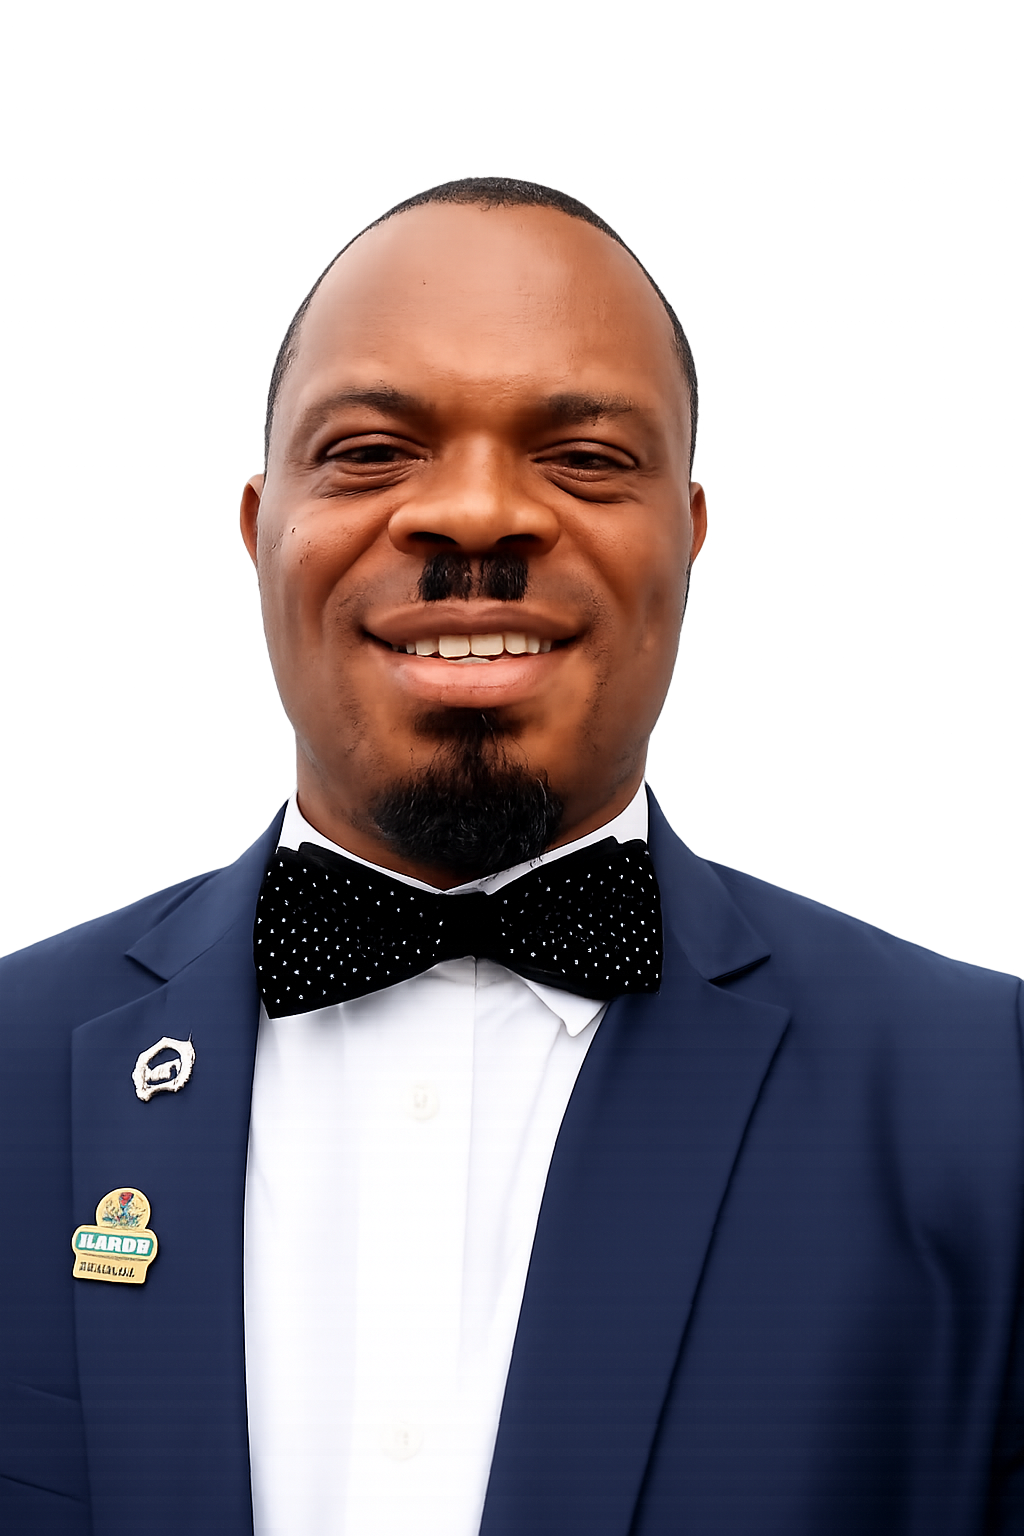
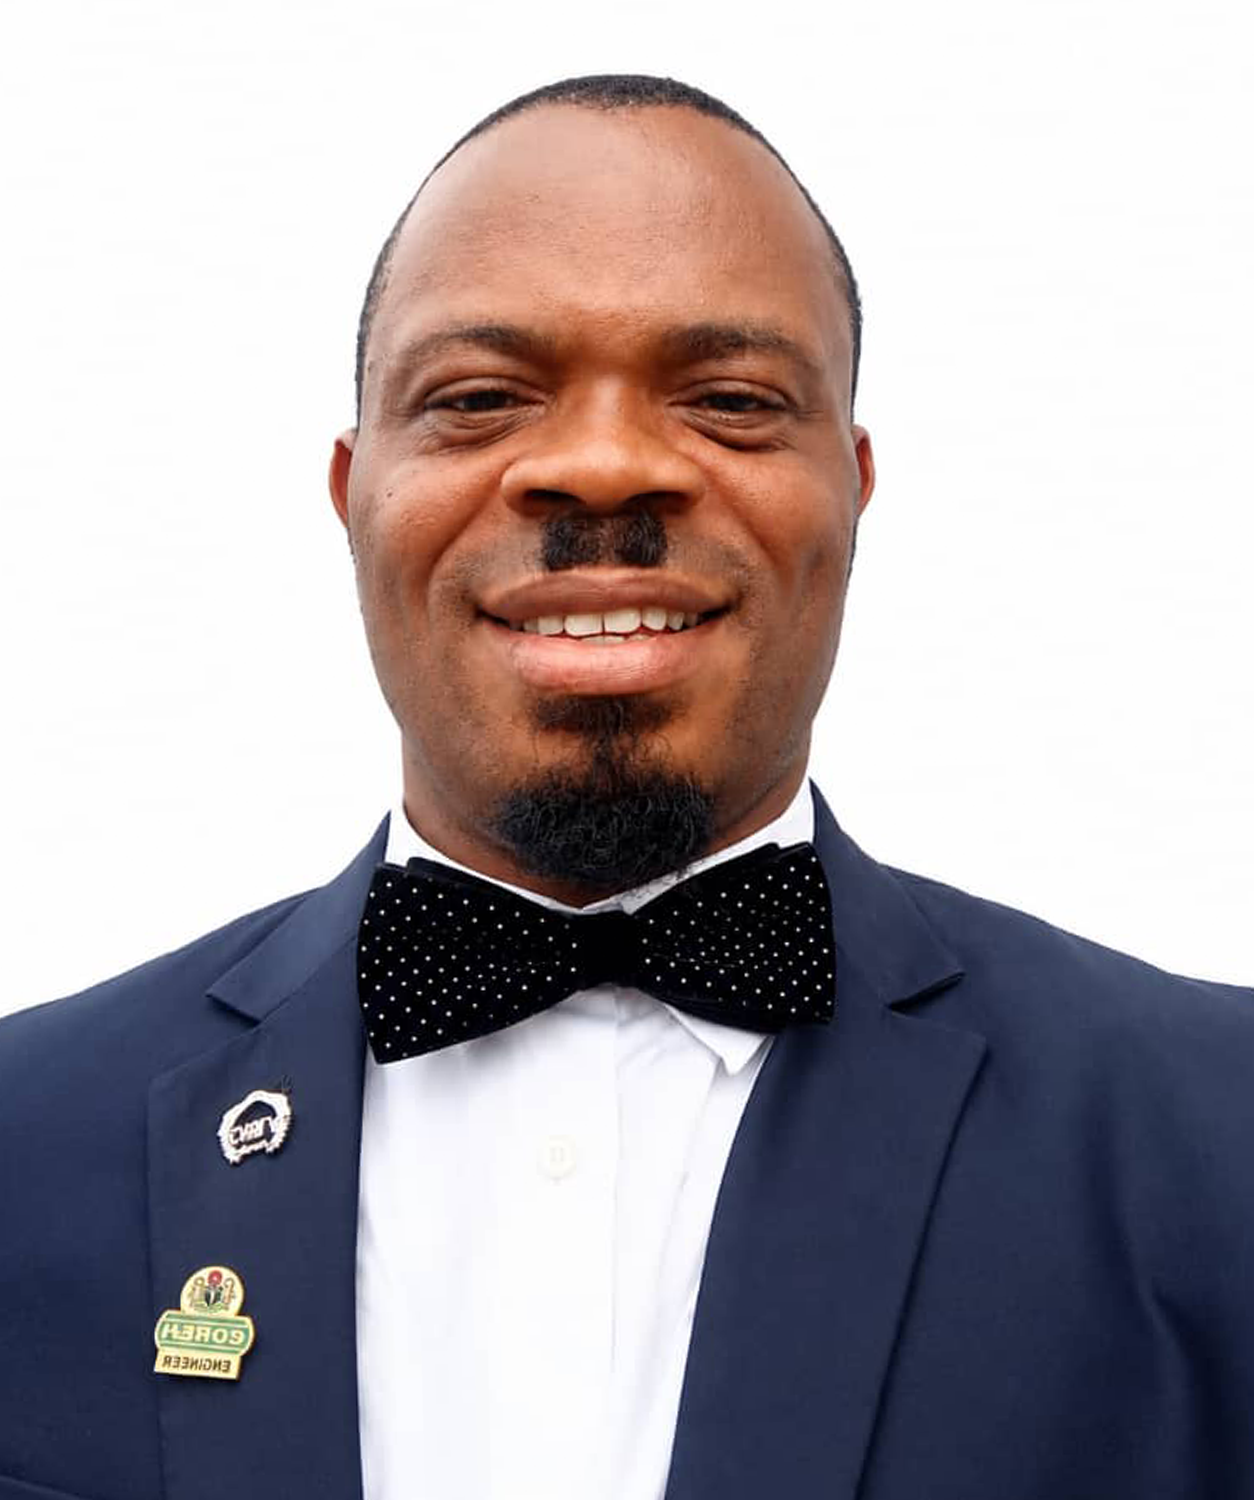
Update project content

diff --git a/about.html b/about.html
@@ -197,14 +197,14 @@
         </div>
         <div class="leader-card">
           <div class="leader-photo">
-            <img src="images/ikenna-osai.jpeg" alt="Ikenne Osai, Commercial Manager" class="leader-image" />
+            <img src="images/ikenna-osai.jpg" alt="Ikenne Osai, Commercial Manager" class="leader-image" />
           </div>
           <div class="leader-name">Ikenna Osai</div>
           <div class="leader-title">Commercial Manager</div>
         </div>
         <div class="leader-card">
           <div class="leader-photo">
-            <img src="images/wealth-ogagaefe.jpeg" alt="Wealth Ogagaefe, Operations Manager" class="leader-image" />
+            <img src="images/wealth-ogagaefe.jpg" alt="Wealth Ogagaefe, Operations Manager" class="leader-image" />
           </div>
           <div class="leader-name">Wealth Ogagaefe</div>
           <div class="leader-title">Operations Manager</div>
